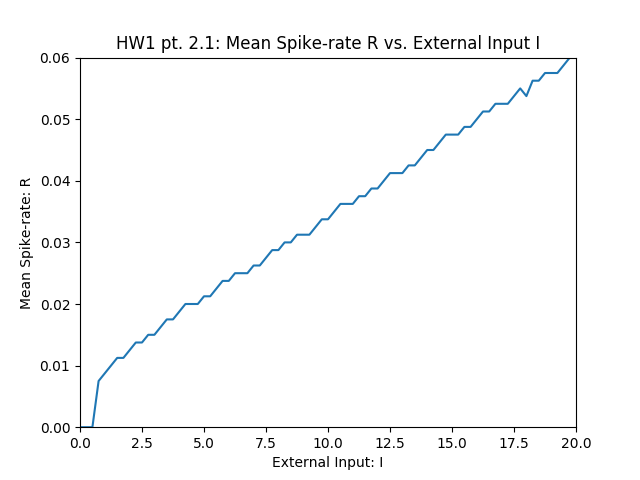
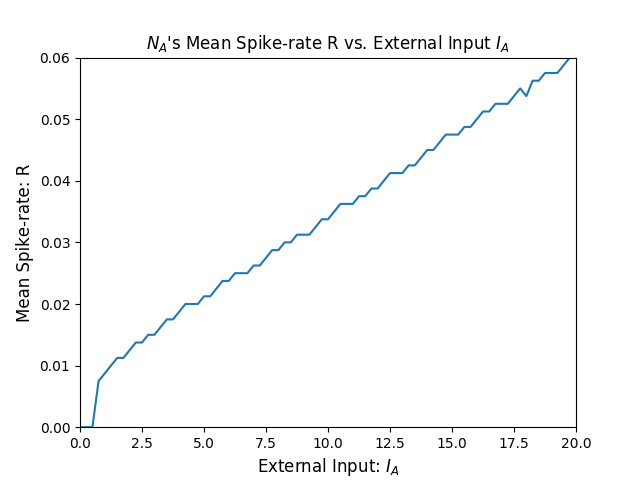
Final commit

Changed region(s): [[0.1875, 0.0625, 0.8438, 0.125], [0.4062, 0.9375, 0.625, 1.0], [0.0312, 0.3438, 0.0625, 0.6875]]

diff --git a/HW1_2.py b/HW1_2.py
@@ -3,7 +3,7 @@ import matplotlib.pyplot as plt  # Python analog to MATLAB's plotting functions
 from HW1_1 import Neuron  # Import neuron class for this problem
 
 """
-    This python file replicates the given MATLAB file paper by
+    This python file replicates the given MATLAB file influenced by
                 Izhikevich E.M. (2004)
     Which Model to Use For Cortical Spiking Neurons?
     use MATLAB R13 or later. November 2003. San Diego, CA
@@ -74,30 +74,31 @@ def main():
         R2[int(istep)]=spike_counter2/800.0
 
     # Plot N_A-R vs. I_A figure
+    fs = 12
     plt.plot(Input,R1)
-    plt.xlabel('External Input: $I_A$')
+    plt.xlabel('External Input: $I_A$', fontsize=fs)
     plt.xlim((0, 20))
     plt.ylim((0, max(R1)))
-    plt.ylabel('Mean Spike-rate: R')
-    plt.title('HW1 pt. 2.1: $N_A$\'s Mean Spike-rate R vs. External Input $I_A$')
+    plt.ylabel('Mean Spike-rate: R', fontsize=fs)
+    plt.title('$N_A$\'s Mean Spike-rate R vs. External Input $I_A$', fontsize=fs)
     plt.show()
 
     # Plot N_B-R vs. I_A figure
     plt.plot(Input,R2)
-    plt.xlabel('External Input: $I_A$')
+    plt.xlabel('External Input: $I_A$', fontsize=fs)
     plt.xlim((0, 20))
     plt.ylim((0, max(R2)))
-    plt.ylabel('Mean Spike-rate: R')
-    plt.title('HW1 pt. 2.2: $N_B$\'s Mean Spike-rate R vs. External Input $I_A$')
+    plt.ylabel('Mean Spike-rate: R', fontsize=fs)
+    plt.title('$N_B$\'s Mean Spike-rate R vs. External Input $I_A$', fontsize=fs)
     plt.show()
 
     # Plot R_N_B vs R_N_A figure
     plt.scatter(R1, R2)
-    plt.xlabel('$N_A$\'s Mean Spike Rate: R-$N_A$')
+    plt.xlabel('$N_A$\'s Mean Spike Rate: R-$N_A$', fontsize=fs)
     plt.ylim((-0.001, max(R2)+0.001))
     plt.xlim((-0.001, max(R1)+0.001))
-    plt.ylabel('$N_B$\'s Mean Spike Rate: R-$N_B$')
-    plt.title('HW1 pt. 2.3: Mean Spike Rate of $N_B$ vs. Mean Spike Rate of $N_A$')
+    plt.ylabel('$N_B$\'s Mean Spike Rate: R-$N_B$', fontsize=fs)
+    plt.title('Mean Spike Rate of $N_B$ vs. Mean Spike Rate of $N_A$', fontsize=fs)
 
     plt.show()
 

diff --git a/HW1_1.py b/HW1_1.py
@@ -1,7 +1,7 @@
 import numpy as np
 import matplotlib.pyplot as plt
 """
-    This python file replicates the given MATLAB file paper by
+    This python file replicates the given MATLAB file influenced by
                 Izhikevich E.M. (2004)
     Which Model to Use For Cortical Spiking Neurons?
     use MATLAB R13 or later. November 2003. San Diego, CA
@@ -114,16 +114,16 @@ def main():
         plt.title('Regular Spiking: I={}'.format(Inplot[n]), fontsize=f1, fontweight='bold')
 
     plt.subplots_adjust(left=0.075, bottom=0.05, right=0.95, top=0.925, wspace=5, hspace=0.75)
-    plt.suptitle('HW1 pt. 1.1: Neuron\'s Response Over Time', fontsize=f1+2)
+    plt.suptitle('Neuron\'s Response Over Time', fontsize=f1+2)
     plt.show()
 
     # Plot R figure
     plt.plot(Input,R)
-    plt.xlabel('External Input: I')
+    plt.xlabel('External Input: I', fontsize=f1+2)
     plt.xlim((0, 20))
     plt.ylim((0, max(R)))
-    plt.ylabel('Mean Spike-rate: R')
-    plt.title('HW1 pt. 1.2: Mean Spike-rate R vs. External Input I')
+    plt.ylabel('Mean Spike-rate: R', fontsize=f1+2)
+    plt.title('Mean Spike-rate R vs. External Input I', fontsize=f1+2)
     plt.show()
 
 if __name__ == '__main__':
